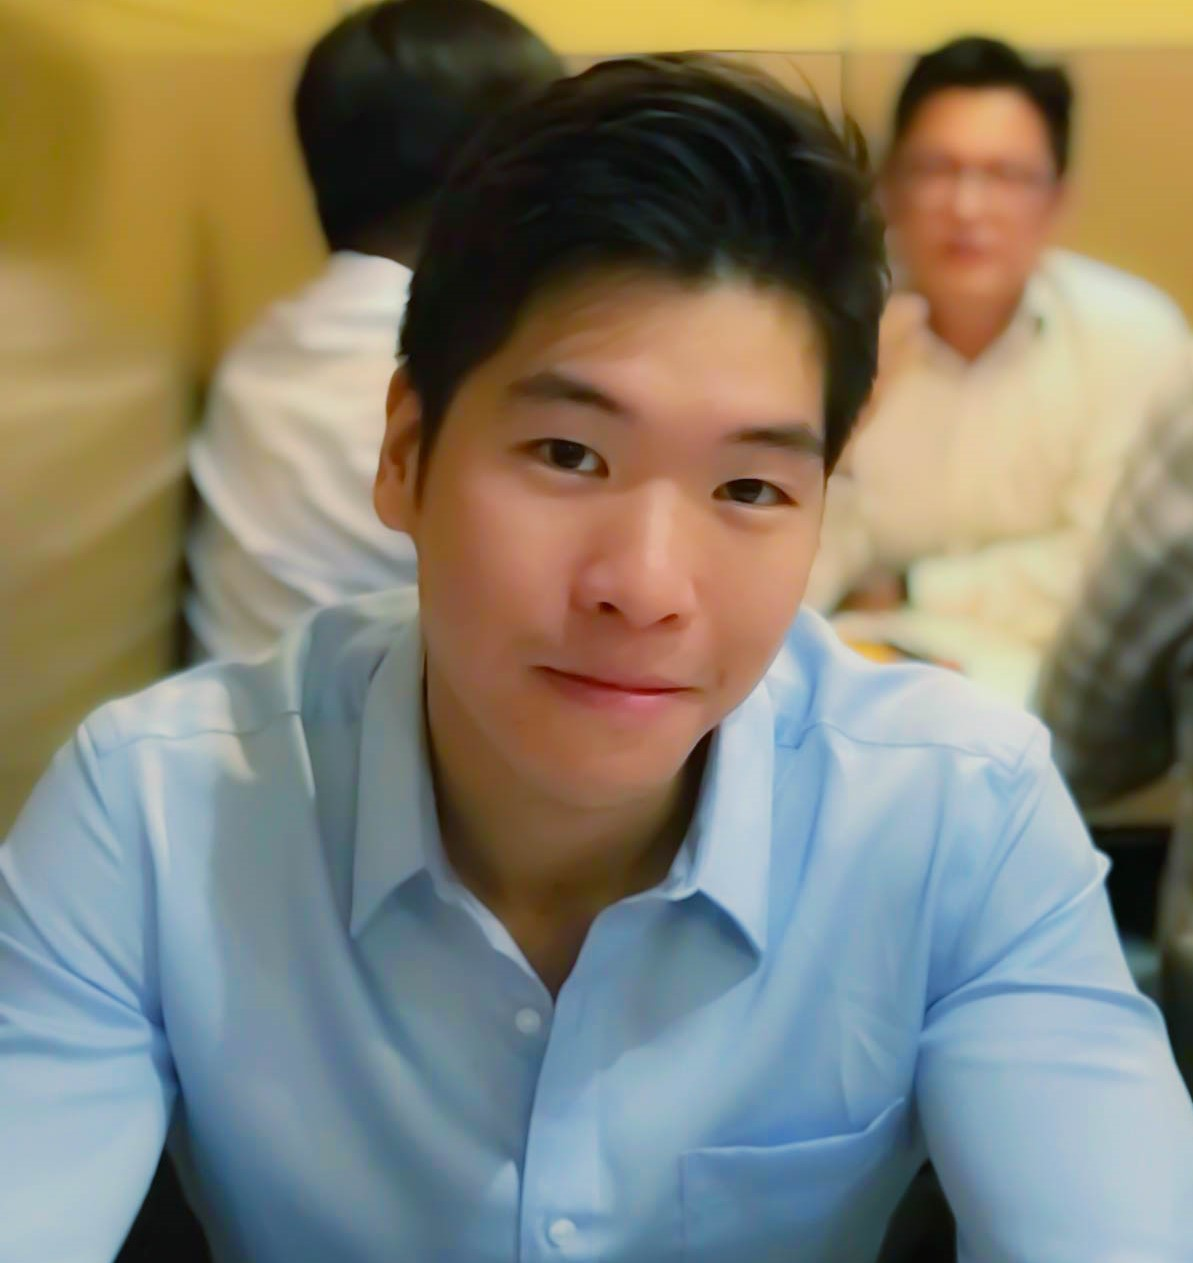
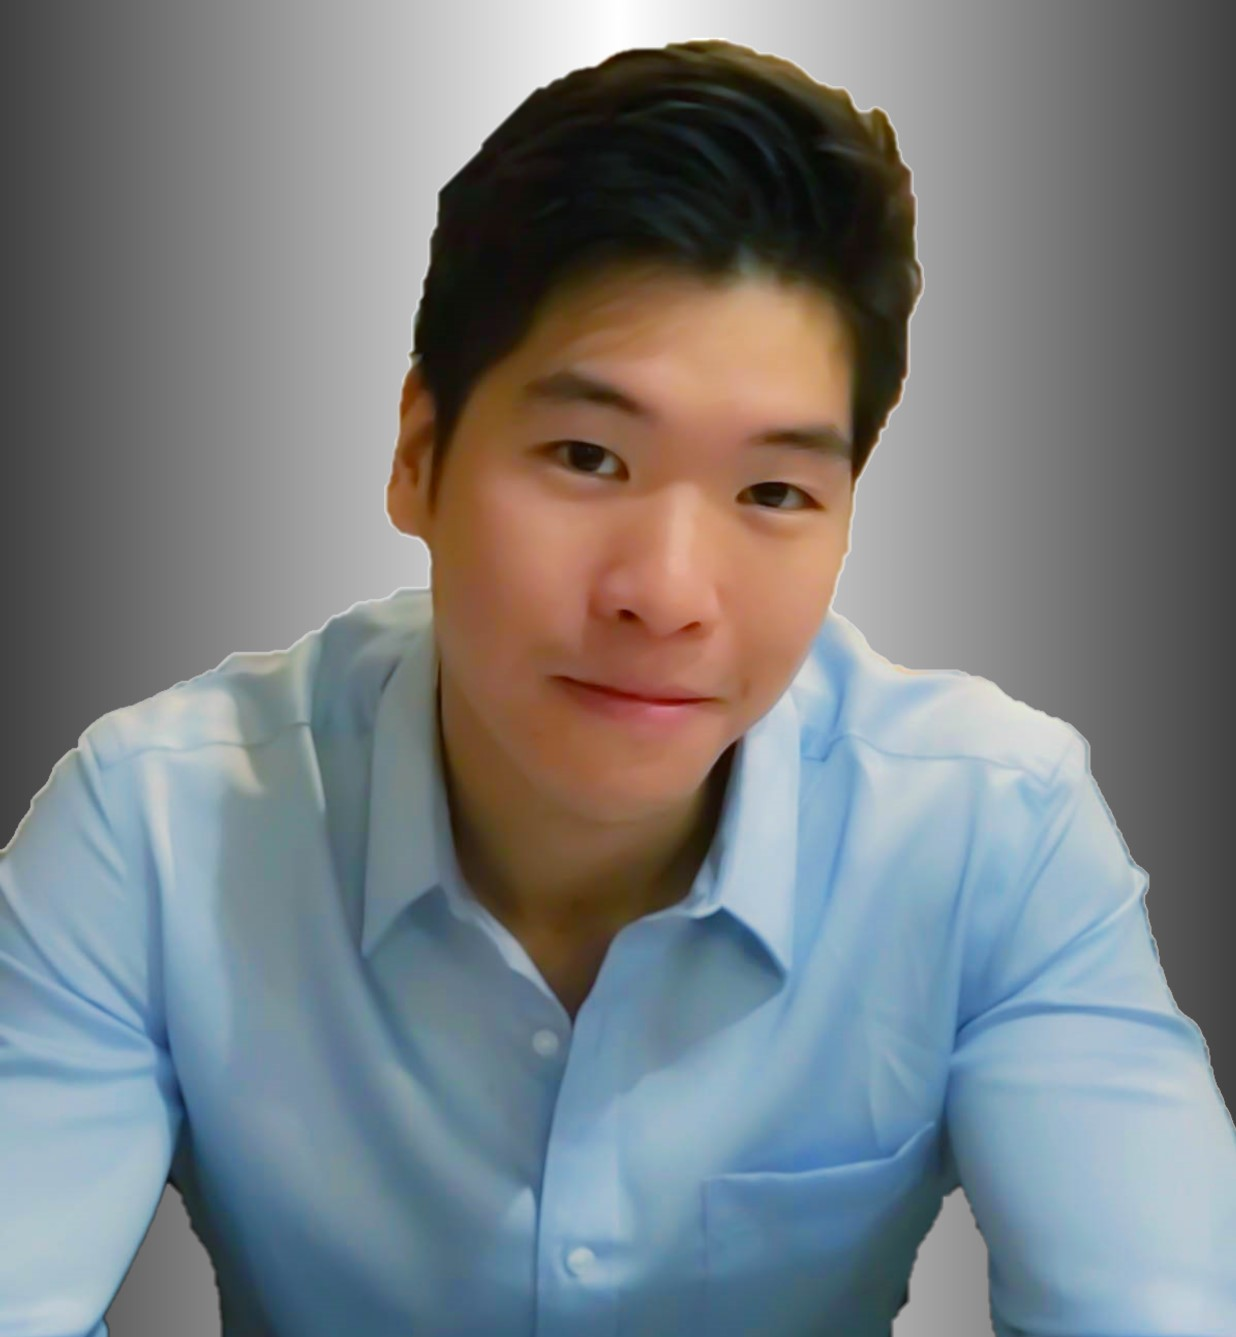
update profile

diff --git a/ctfpage.html b/ctfpage.html
@@ -20,7 +20,7 @@
         <nav class="navbar navbar-expand-xl navbar-dark bg-primary fixed-top" id="sideNav">
             <a class="navbar-brand js-scroll-trigger" href="index.html">
                 <span class="d-block d-xl-none">Olivier LEUNG</span>
-                <span class="d-none d-xl-block"><img class="img-fluid img-profile rounded-circle mx-auto mb-2" src="assets/img/profile_grey.png" alt="" /></span>
+                <span class="d-none d-xl-block"><img class="img-fluid img-profile rounded-circle mx-auto mb-2" src="assets/img/profile.jpg" alt="" /></span>
             </a>
             <div class="d-none d-xl-block description_profile"> <!--d-none is used for responsiveness of the panel when you shring the window -->
                 <h3>Olivier LEUNG</h3>

diff --git a/dfirpage.html b/dfirpage.html
@@ -20,7 +20,7 @@
         <nav class="navbar navbar-expand-xl navbar-dark bg-primary fixed-top" id="sideNav">
             <a class="navbar-brand js-scroll-trigger" href="index.html">
                 <span class="d-block d-xl-none">Olivier LEUNG</span>
-                <span class="d-none d-xl-block"><img class="img-fluid img-profile rounded-circle mx-auto mb-2" src="assets/img/profile_grey.png" alt="" /></span>
+                <span class="d-none d-xl-block"><img class="img-fluid img-profile rounded-circle mx-auto mb-2" src="assets/img/profile.jpg" alt="" /></span>
             </a>
             <div class="d-none d-xl-block description_profile"> <!--d-none is used for responsiveness of the panel when you shring the window -->
                 <h3>Olivier LEUNG</h3>

diff --git a/malwarepage.html b/malwarepage.html
@@ -20,7 +20,7 @@
         <nav class="navbar navbar-expand-xl navbar-dark bg-primary fixed-top" id="sideNav">
             <a class="navbar-brand js-scroll-trigger" href="index.html">
                 <span class="d-block d-xl-none">Olivier LEUNG</span>
-                <span class="d-none d-xl-block"><img class="img-fluid img-profile rounded-circle mx-auto mb-2" src="assets/img/profile_grey.png" alt="" /></span>
+                <span class="d-none d-xl-block"><img class="img-fluid img-profile rounded-circle mx-auto mb-2" src="assets/img/profile.jpg" alt="" /></span>
             </a>
             <div class="d-none d-xl-block description_profile"> <!--d-none is used for responsiveness of the panel when you shring the window -->
                 <h3>Olivier LEUNG</h3>

diff --git a/tutorialpage.html b/tutorialpage.html
@@ -20,7 +20,7 @@
         <nav class="navbar navbar-expand-xl navbar-dark bg-primary fixed-top" id="sideNav">
             <a class="navbar-brand js-scroll-trigger" href="index.html">
                 <span class="d-block d-xl-none">Olivier LEUNG</span>
-                <span class="d-none d-xl-block"><img class="img-fluid img-profile rounded-circle mx-auto mb-2" src="assets/img/profile_grey.png" alt="" /></span>
+                <span class="d-none d-xl-block"><img class="img-fluid img-profile rounded-circle mx-auto mb-2" src="assets/img/profile.jpg" alt="" /></span>
             </a>
             <div class="d-none d-xl-block description_profile"> <!--d-none is used for responsiveness of the panel when you shring the window -->
                 <h3>Olivier LEUNG</h3>

diff --git a/vulnpage.html b/vulnpage.html
@@ -20,7 +20,7 @@
         <nav class="navbar navbar-expand-xl navbar-dark bg-primary fixed-top" id="sideNav">
             <a class="navbar-brand js-scroll-trigger" href="index.html">
                 <span class="d-block d-xl-none">Olivier LEUNG</span>
-                <span class="d-none d-xl-block"><img class="img-fluid img-profile rounded-circle mx-auto mb-2" src="assets/img/profile_grey.png" alt="" /></span>
+                <span class="d-none d-xl-block"><img class="img-fluid img-profile rounded-circle mx-auto mb-2" src="assets/img/profile.jpg" alt="" /></span>
             </a>
             <div class="d-none d-xl-block description_profile"> <!--d-none is used for responsiveness of the panel when you shring the window -->
                 <h3>Olivier LEUNG</h3>

diff --git a/index.html b/index.html
@@ -20,7 +20,7 @@
         <nav class="navbar navbar-expand-xl navbar-dark bg-primary fixed-top" id="sideNav">
             <a class="navbar-brand js-scroll-trigger" href="#page-top">
             	<span class="d-block d-xl-none">Olivier LEUNG</span>
-                <span class="d-none d-xl-block"><img class="img-fluid img-profile rounded-circle mx-auto mb-2" src="assets/img/profile_grey.png" alt="" /></span>
+                <span class="d-none d-xl-block"><img class="img-fluid img-profile rounded-circle mx-auto mb-2" src="assets/img/profile.jpg" alt="" /></span>
             </a>
             <div class="d-none d-xl-block description_profile"> <!--d-none is used for responsiveness of the panel when you shring the window -->
             	<h3>Olivier LEUNG</h3>
